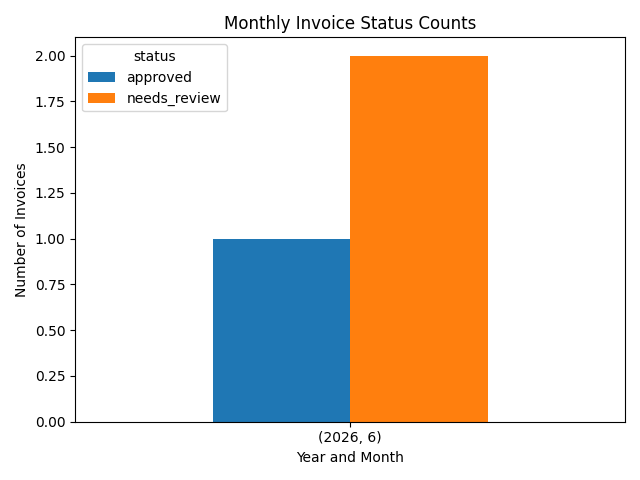
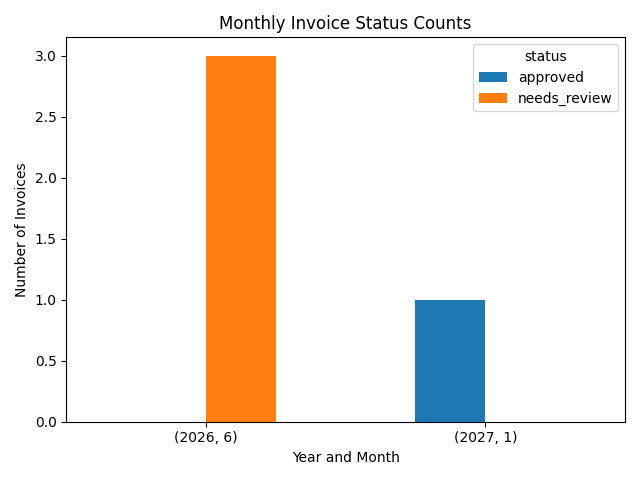
The app reads many years. The app creates one report per year. The yearly chart compares years.

diff --git a/Info_project/PROJECT_NOTES.md b/Info_project/PROJECT_NOTES.md
@@ -466,3 +466,14 @@ ________________________________
 
 Toda vez adicionar a chamada no controlador, mas a função o service.
 _________________________________________
+
+Sempre:  Rodar Pipeline
+Rode na ordem:
+
+python invoice_analyzer.py
+python invoice_data_analysis.py
+_____________
+The app reads many years.
+The app creates one report per year.
+The yearly chart compares years.
+_____________________
